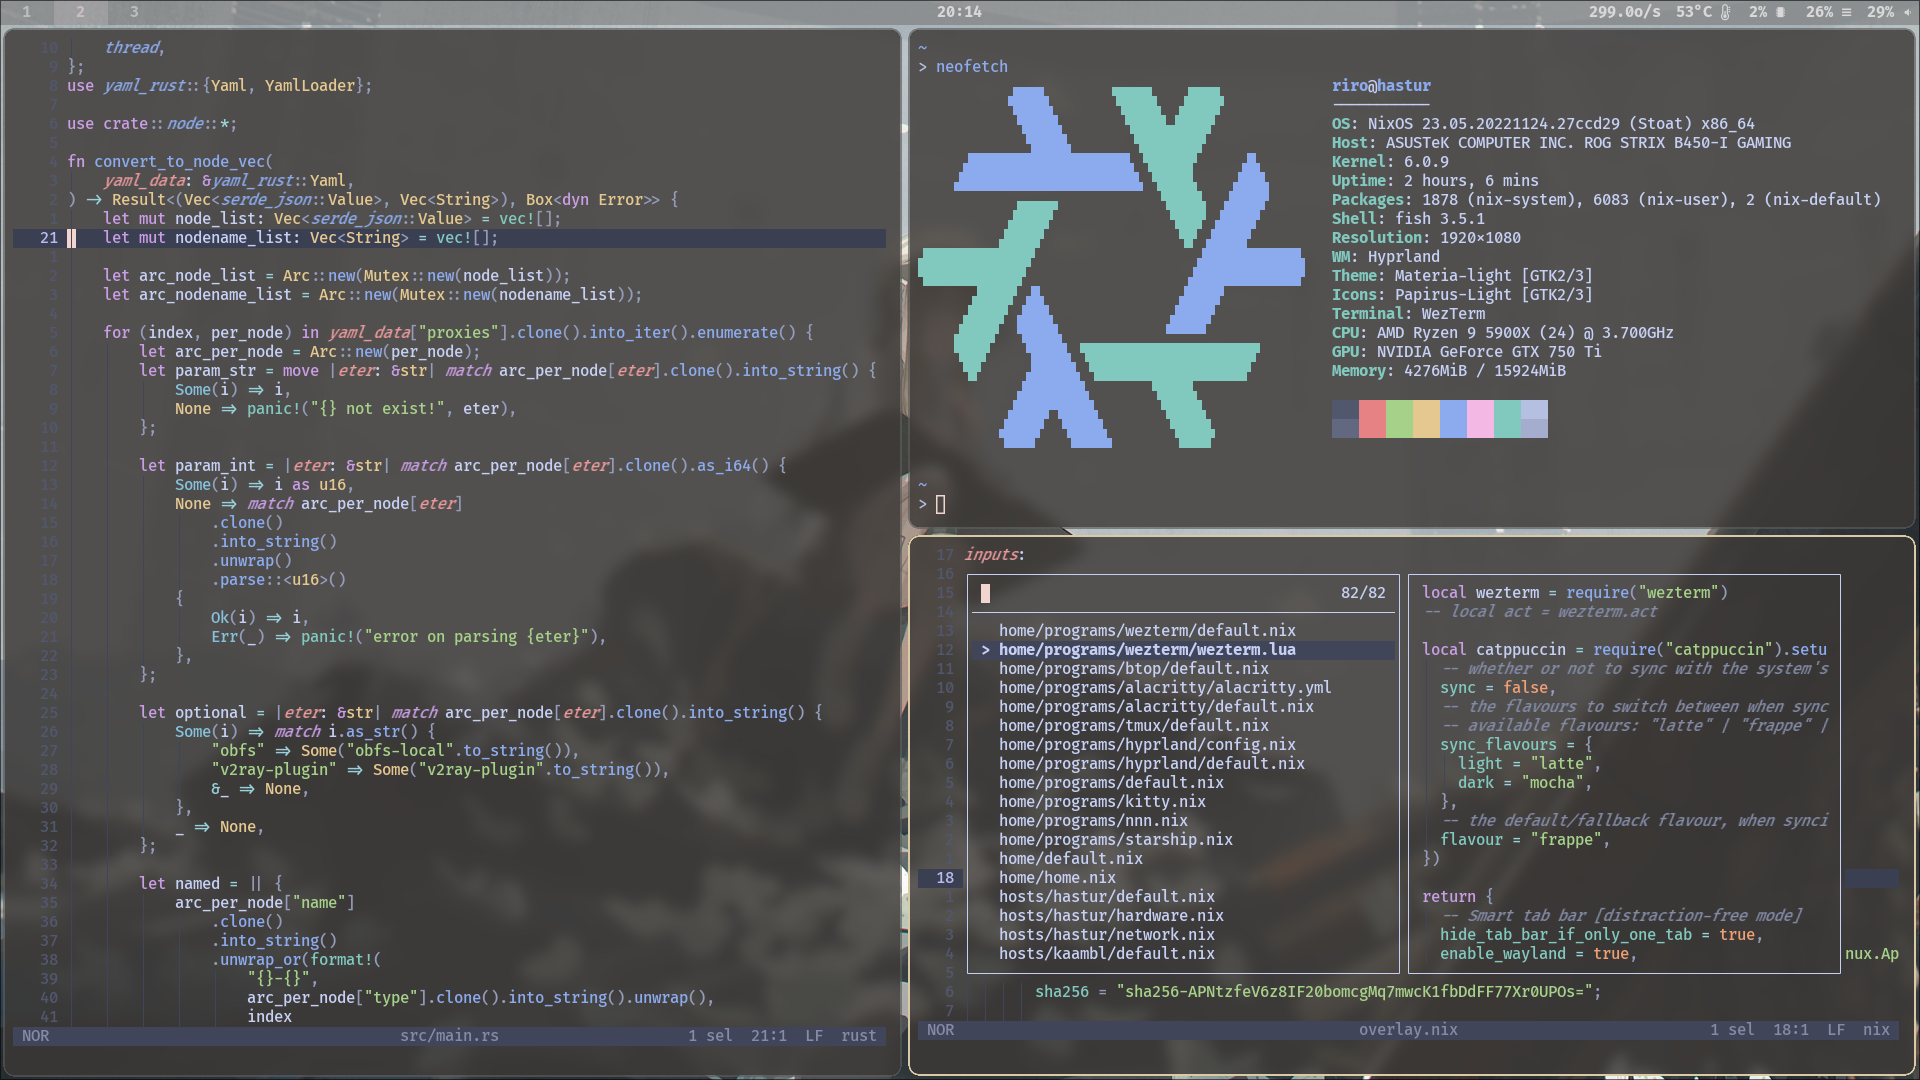
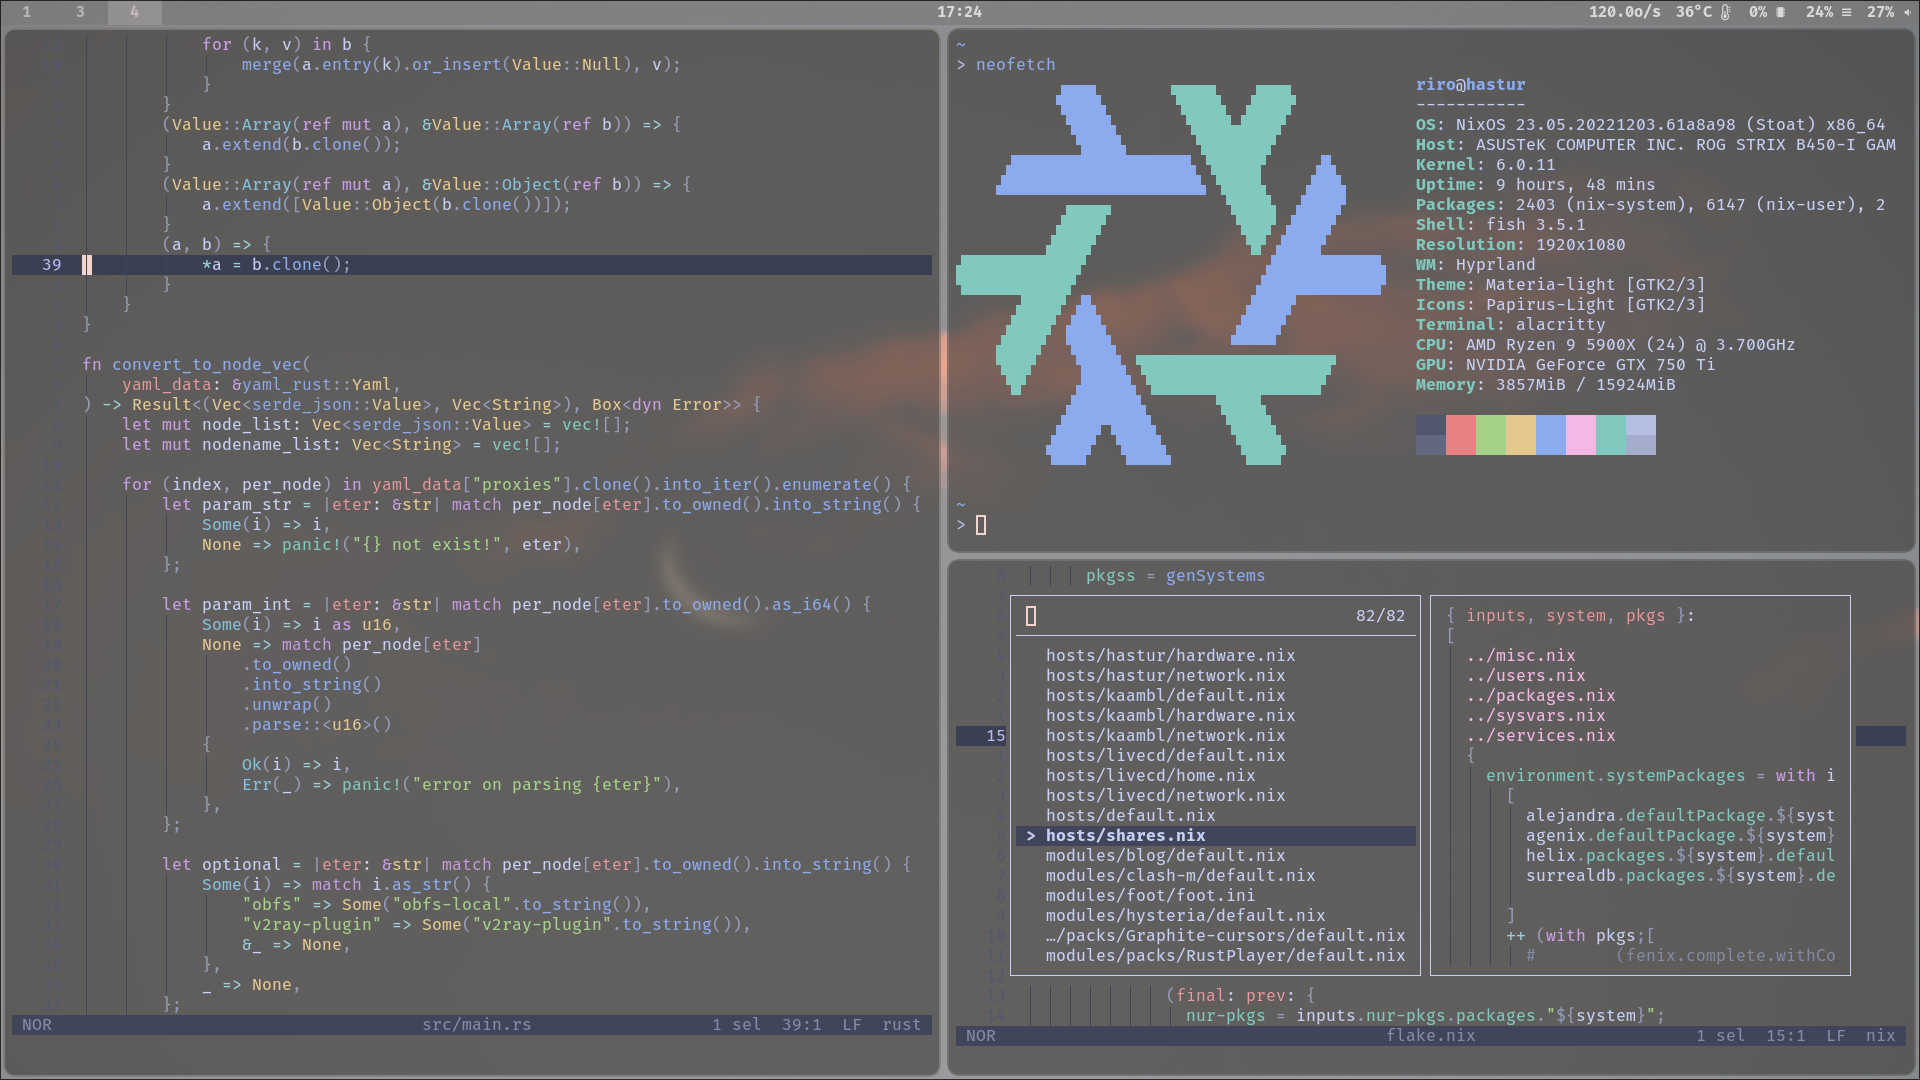
update: screenshots

diff --git a/README.md b/README.md
@@ -40,10 +40,10 @@ nixos-rebuild switch --flake github:oluceps/nixos-config#<hostname>
 |Type|Program|
 |---|---|
 |Editor|[helix](https://github.com/oluceps/nixos-config/tree/pub/home/programs/helix)|
-|WM|[sway](https://github.com/oluceps/nixos-config/tree/pub/home/programs/sway)|
+|WM|[Hyprland](https://github.com/oluceps/nixos-config/tree/pub/home/programs/hyprland)|
 |Shell|[fish](https://github.com/oluceps/nixos-config/tree/pub/home/programs/fish)|
 |Bar|[waybar](https://github.com/oluceps/nixos-config/tree/pub/home/programs/waybar)|
-|Terminal|[wezterm](https://github.com/oluceps/nixos-config/tree/pub/home/programs/wezterm)|
+|Terminal|[alacritty](https://github.com/oluceps/nixos-config/tree/pub/home/programs/alacritty)|
 |backup|[btrbk](https://github.com/oluceps/nixos-config/tree/pub/modules/btrbk)|  
 
 _To use devShell:_  
